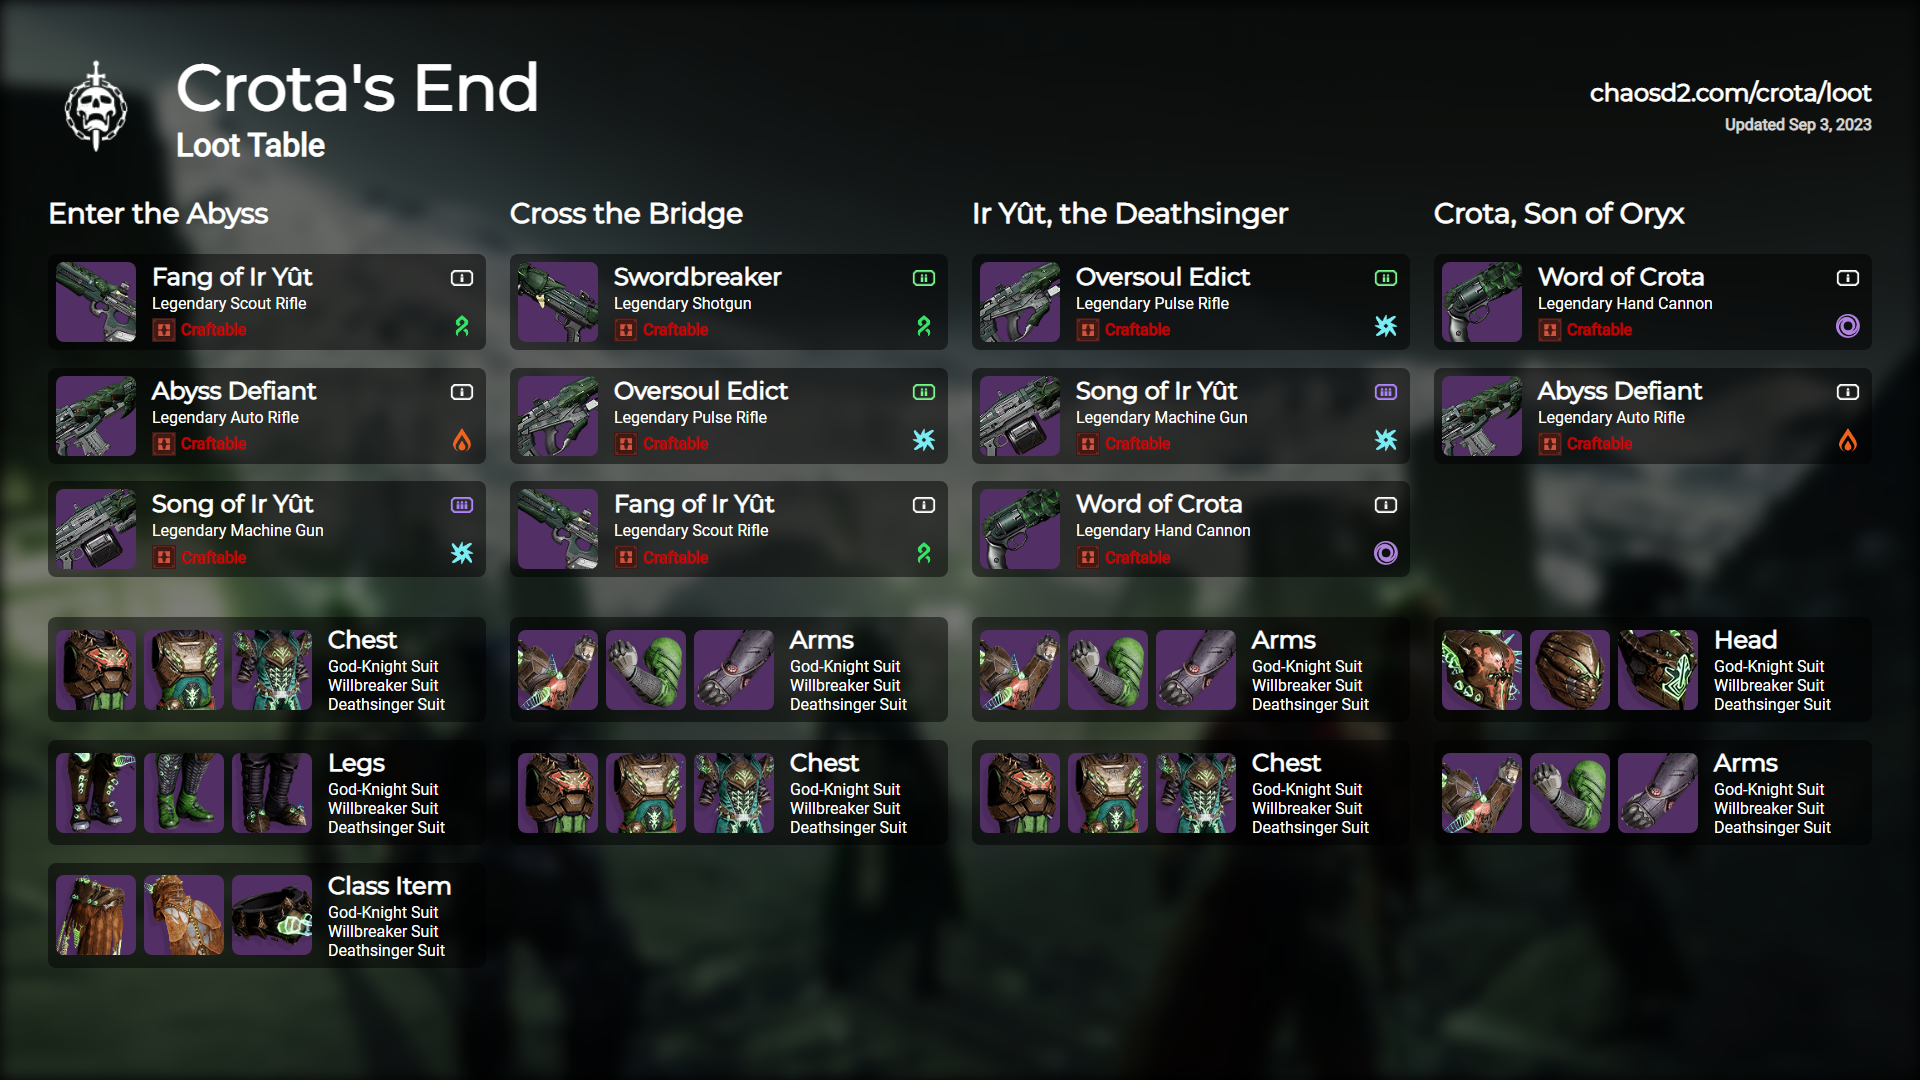
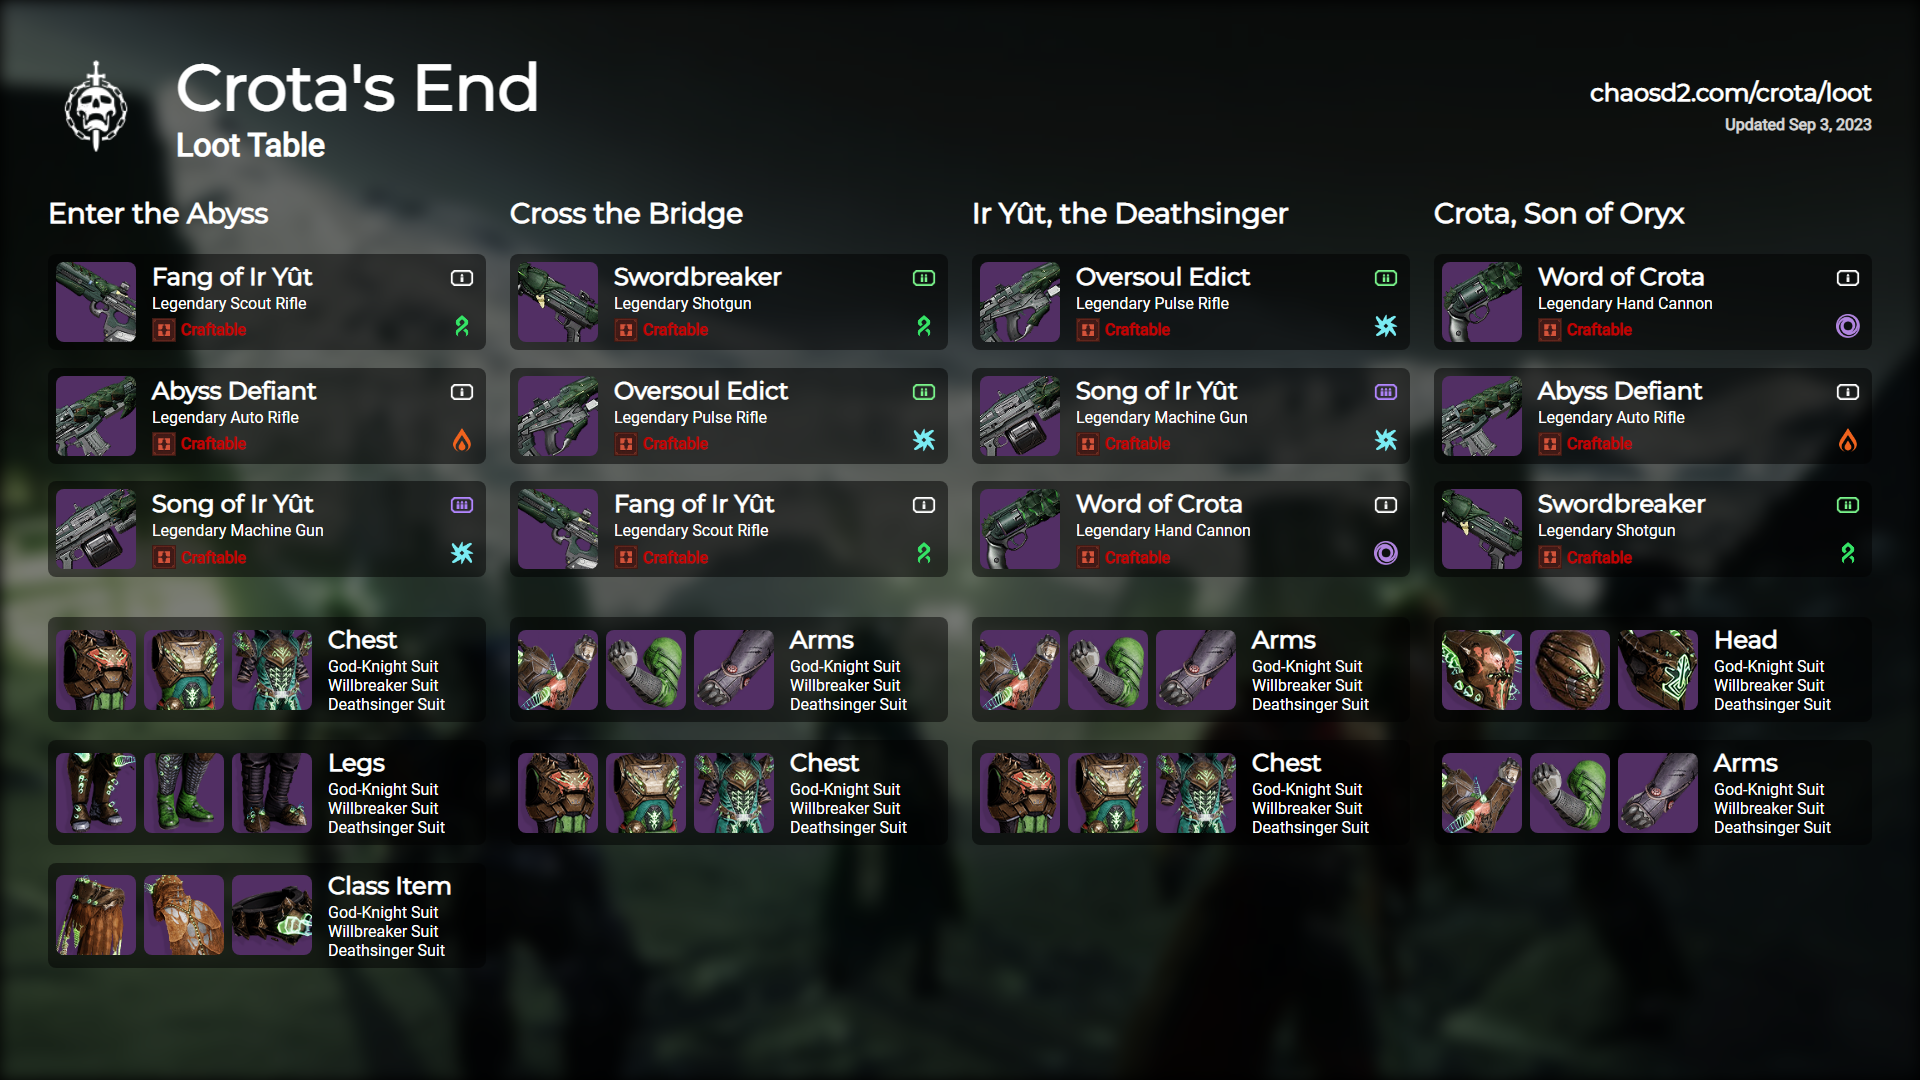
Updated Crota Loot Table

Changed region(s): [[0.75, 0.4278, 0.9688, 0.55]]

diff --git a/src/app/image_sources/raids/crotas_end/loot/page.js b/src/app/image_sources/raids/crotas_end/loot/page.js
@@ -69,7 +69,8 @@ const data = {
             name: "Crota, Son of Oryx",
             "items": [
                 items.hand_cannon,
-                items.auto_rifle
+                items.auto_rifle,
+                items.shotgun
             ],
             "armour": [
                 "Head",
